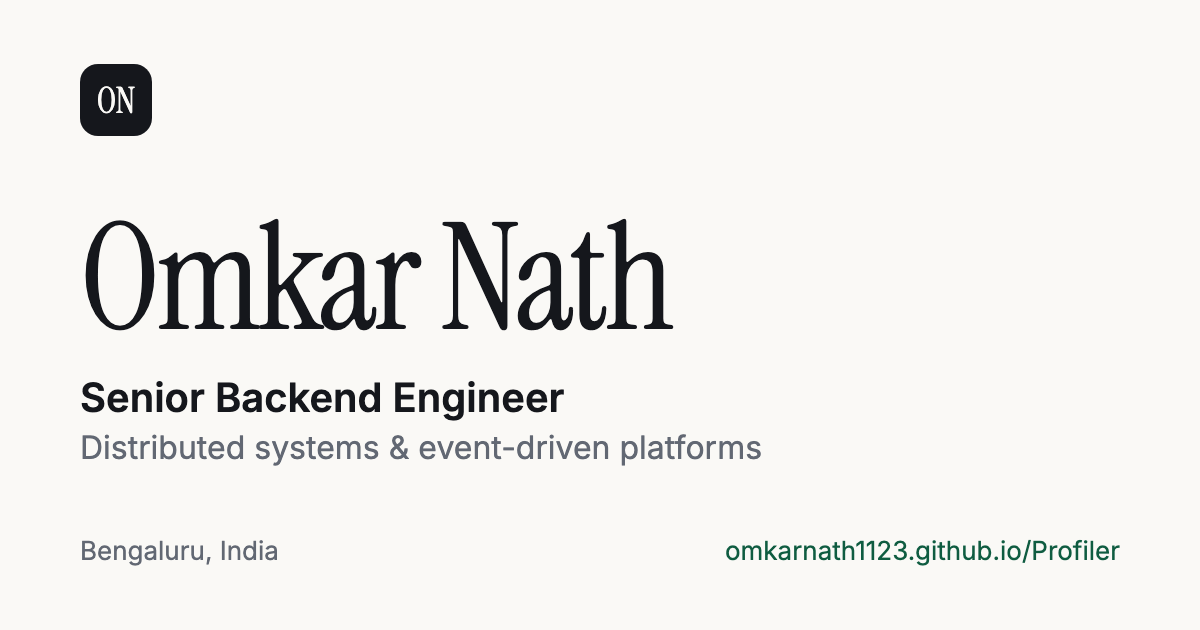
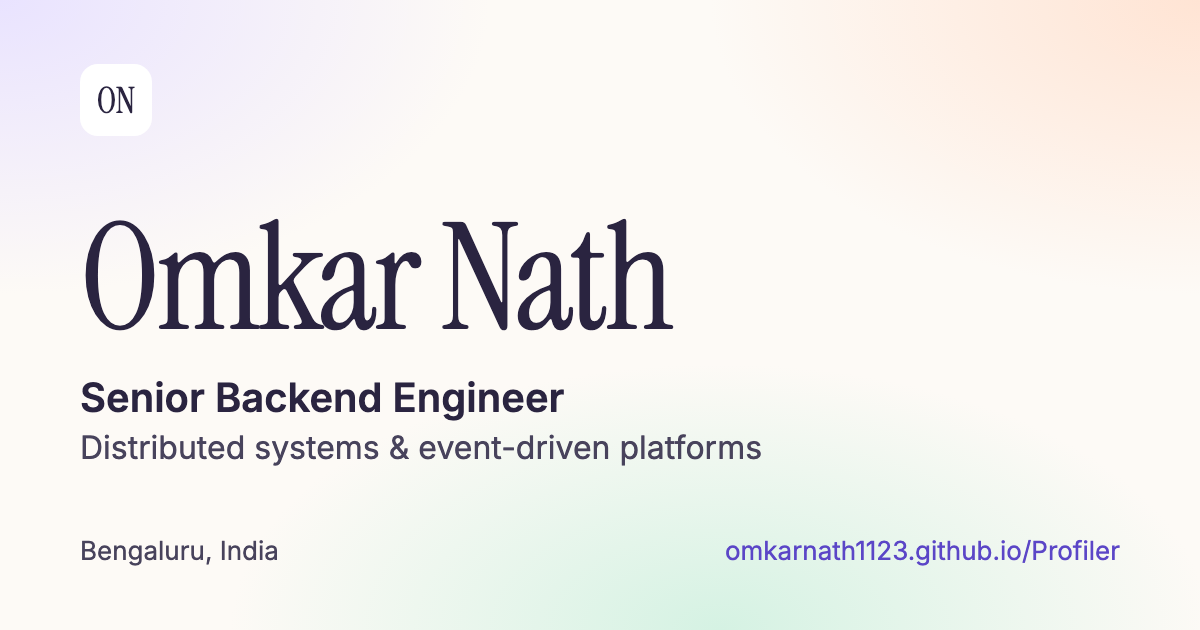
Restyle the CV with a pastel palette
Six pastel tints cycle through the stat cards, section labels, skill chips and project cards. Jobs become white cards, the contact section a gradient panel, and the accent moves from green to violet. Favicon, share card and theme colour follow the new palette. All text pairs keep AA contrast in both themes; print stays at three pages.

diff --git a/src/components/Cv.css b/src/components/Cv.css
@@ -1,15 +1,24 @@
-/* Editorial single-column CV. Text colours meet AA contrast in both themes. */
+/* Pastel editorial CV. Text is always dark ink on a light tint (or the reverse in the
+   dark theme), so it keeps AA contrast. --muted is only for text on --bg or --surface;
+   on a pastel tint use --text. */
 :root {
   color-scheme: light;
-  --bg: #faf9f6;
+  --bg: #fdfaf6;
   --surface: #ffffff;
-  --ink: #15171c;
-  --text: #363a43;
-  --muted: #626873;
-  --line: #e3e0d9;
-  --accent: #0f5c41;
-  --accent-soft: #e4efe9;
+  --ink: #2a2440;
+  --text: #48435c;
+  --muted: #6f6a85;
+  --line: #ebe5f0;
+  --accent: #5b46c7;
   --on-accent: #ffffff;
+  --positive: #1c6b4a;
+  --lavender: #e9e3ff;
+  --mint: #d5f2e3;
+  --peach: #ffe4d4;
+  --sky: #d8ebff;
+  --butter: #fff1c9;
+  --rose: #ffe0ea;
+  --shadow: 0 18px 40px -24px rgb(91 70 199 / 0.35);
   --sans: "Inter Variable", system-ui, -apple-system, "Segoe UI", Roboto, sans-serif;
   --serif: "Instrument Serif", Georgia, "Times New Roman", serif;
 }
@@ -17,22 +26,44 @@
 @media screen and (prefers-color-scheme: dark) {
   :root {
     color-scheme: dark;
-    --bg: #0e1013;
-    --surface: #16191e;
-    --ink: #f3f4f6;
-    --text: #c8ccd3;
-    --muted: #979ea9;
-    --line: #282c34;
-    --accent: #72d6a8;
-    --accent-soft: #15271f;
-    --on-accent: #0b1a13;
+    --bg: #15131f;
+    --surface: #1d1a2b;
+    --ink: #f4f1ff;
+    --text: #cdc8e0;
+    --muted: #9f99b8;
+    --line: #2e2a42;
+    --accent: #b7a8ff;
+    --on-accent: #1a1530;
+    --positive: #8fe0b8;
+    --lavender: #2d2752;
+    --mint: #18382c;
+    --peach: #45291d;
+    --sky: #1b3350;
+    --butter: #3f361a;
+    --rose: #452334;
+    --shadow: none;
   }
 }
+
+/* Children of a .tinted container take the pastels in turn, so repeated cards,
+   chips and section labels never all look the same. */
+.tinted > :nth-child(6n + 1) { --tint: var(--lavender); }
+.tinted > :nth-child(6n + 2) { --tint: var(--mint); }
+.tinted > :nth-child(6n + 3) { --tint: var(--peach); }
+.tinted > :nth-child(6n + 4) { --tint: var(--sky); }
+.tinted > :nth-child(6n + 5) { --tint: var(--butter); }
+.tinted > :nth-child(6n) { --tint: var(--rose); }
 
 *, *::before, *::after { box-sizing: border-box; }
 body {
   margin: 0;
-  background: var(--bg);
+  /* A soft wash of three pastels behind the top of the page. */
+  background:
+    radial-gradient(64rem 34rem at 0% 0%, var(--lavender), transparent 70%),
+    radial-gradient(56rem 30rem at 100% 0%, var(--peach), transparent 70%),
+    radial-gradient(36rem 14rem at 50% -4rem, var(--mint), transparent 70%),
+    var(--bg);
+  background-repeat: no-repeat;
   color: var(--text);
   font-family: var(--sans);
   font-size: 1rem;
@@ -61,9 +92,10 @@ a:hover { text-decoration-color: currentColor; }
   place-items: center;
   width: 44px;
   height: 44px;
-  border-radius: 12px;
-  background: var(--ink);
-  color: var(--bg);
+  border-radius: 14px;
+  background: linear-gradient(135deg, var(--lavender), var(--rose));
+  box-shadow: var(--shadow);
+  color: var(--ink);
   font-family: var(--serif);
   font-size: 1.35rem;
 }
@@ -86,8 +118,8 @@ a:hover { text-decoration-color: currentColor; }
   margin-bottom: 28px;
   padding: 6px 14px;
   border-radius: 999px;
-  background: var(--accent-soft);
-  color: var(--accent);
+  background: var(--mint);
+  color: var(--positive);
   font-size: 0.85rem;
   font-weight: 550;
 }
@@ -110,7 +142,7 @@ a:hover { text-decoration-color: currentColor; }
   padding: 11px 22px;
   border: 1px solid var(--line);
   border-radius: 999px;
-  background: transparent;
+  background: var(--surface);
   color: var(--ink);
   font: inherit;
   font-size: 0.95rem;
@@ -127,8 +159,9 @@ a:hover { text-decoration-color: currentColor; }
 .glance {
   padding: 6px 24px;
   border: 1px solid var(--line);
-  border-radius: 16px;
+  border-radius: 20px;
   background: var(--surface);
+  box-shadow: var(--shadow);
   font-size: 0.92rem;
 }
 .glance-row { display: grid; grid-template-columns: 108px 1fr; gap: 12px; padding: 12px 0; }
@@ -136,14 +169,8 @@ a:hover { text-decoration-color: currentColor; }
 .glance dt { color: var(--muted); }
 .glance dd { font-weight: 500; color: var(--ink); }
 
-.highlights {
-  display: grid;
-  grid-template-columns: repeat(4, 1fr);
-  border-top: 1px solid var(--line);
-  border-bottom: 1px solid var(--line);
-}
-.highlights li { padding: 28px 24px; border-left: 1px solid var(--line); }
-.highlights li:first-child { padding-left: 0; border-left: 0; }
+.highlights { display: grid; grid-template-columns: repeat(4, 1fr); gap: 16px; }
+.highlights li { padding: 24px; border-radius: 20px; background: var(--tint); }
 .highlights strong {
   display: block;
   font-family: var(--serif);
@@ -152,30 +179,32 @@ a:hover { text-decoration-color: currentColor; }
   line-height: 1;
   color: var(--ink);
 }
-.highlights span { display: block; margin-top: 10px; font-size: 0.88rem; line-height: 1.45; color: var(--muted); }
+.highlights span { display: block; margin-top: 10px; font-size: 0.88rem; line-height: 1.45; }
 
 /* ---------- Sections ---------- */
 .section {
   display: grid;
   grid-template-columns: 200px minmax(0, 1fr);
   gap: 40px;
-  padding: 56px 0;
-  border-bottom: 1px solid var(--line);
+  padding: 44px 0;
 }
 .section-title {
   position: sticky;
   top: 24px;
-  align-self: start;
-  padding-top: 5px;
-  font-size: 0.78rem;
+  place-self: start;
+  padding: 6px 14px;
+  border-radius: 999px;
+  background: var(--tint);
+  font-size: 0.75rem;
   font-weight: 600;
-  letter-spacing: 0.14em;
+  letter-spacing: 0.12em;
   text-transform: uppercase;
-  color: var(--accent);
+  color: var(--ink);
 }
 .about-text + .about-text { margin-top: 14px; }
 
-.job + .job { margin-top: 44px; padding-top: 44px; border-top: 1px solid var(--line); }
+.job { padding: 28px 30px; border: 1px solid var(--line); border-radius: 20px; background: var(--surface); }
+.job + .job { margin-top: 18px; }
 .job-head { display: flex; align-items: baseline; justify-content: space-between; gap: 24px; }
 .job-company { font-size: 1.2rem; font-weight: 650; letter-spacing: -0.01em; color: var(--ink); }
 .job-role { font-weight: 500; color: var(--ink); }
@@ -194,14 +223,24 @@ a:hover { text-decoration-color: currentColor; }
   background: var(--accent);
 }
 
-.entries { display: grid; gap: 26px; }
+.entries { display: grid; grid-template-columns: repeat(auto-fit, minmax(260px, 1fr)); gap: 16px; }
+.entries li { padding: 20px 22px; border-radius: 18px; background: var(--tint); }
 .entry-title { font-weight: 600; color: var(--ink); }
 .entry-meta { font-size: 0.88rem; color: var(--muted); }
+.entries .entry-meta { margin-bottom: 6px; color: var(--text); }
 
-.skill-row { display: grid; grid-template-columns: 200px 1fr; gap: 16px; padding: 12px 0; }
-.skill-row + .skill-row { border-top: 1px solid var(--line); }
+.skill-row { display: grid; grid-template-columns: 200px 1fr; gap: 16px; padding: 10px 0; }
 .skill-row:first-child { padding-top: 0; }
-.skills dt { font-weight: 600; color: var(--ink); }
+.skills dt { padding-top: 3px; font-weight: 600; color: var(--ink); }
+.chips { display: flex; flex-wrap: wrap; gap: 8px; }
+.chips li { padding: 3px 12px; border-radius: 999px; background: var(--tint); font-size: 0.88rem; color: var(--ink); }
+
+.contact-panel {
+  padding: 36px;
+  border-radius: 24px;
+  background: linear-gradient(135deg, var(--lavender), var(--peach));
+  color: var(--ink);
+}
 
 /* Sans on purpose: the serif's "1" reads as a lowercase "l", which is fatal in an address. */
 .contact-email {
@@ -220,12 +259,12 @@ a:hover { text-decoration-color: currentColor; }
 @media screen and (max-width: 860px) {
   .page { padding: 0 20px 48px; }
   .hero-grid { grid-template-columns: 1fr; gap: 36px; padding: 28px 0 40px; }
-  .highlights { grid-template-columns: repeat(2, 1fr); }
-  .highlights li { padding: 22px 16px; }
-  .highlights li:nth-child(odd) { padding-left: 0; border-left: 0; }
-  .highlights li:nth-child(n + 3) { border-top: 1px solid var(--line); }
-  .section { grid-template-columns: 1fr; gap: 20px; padding: 40px 0; }
+  .highlights { grid-template-columns: repeat(2, 1fr); gap: 12px; }
+  .highlights li { padding: 18px; }
+  .section { grid-template-columns: 1fr; gap: 18px; padding: 32px 0; }
   .section-title { position: static; }
+  .job { padding: 22px 20px; }
+  .contact-panel { padding: 26px 22px; }
 }
 @media screen and (max-width: 520px) {
   .topbar-links { gap: 18px; }
@@ -234,12 +273,14 @@ a:hover { text-decoration-color: currentColor; }
   .skill-row { grid-template-columns: 1fr; gap: 2px; }
 }
 
-/* ---------- Paper: a plain A4 CV ---------- */
+/* ---------- Paper: an A4 CV. Pastel fills are kept (they are light on ink); the page wash and cards' padding are not. ---------- */
 @media print {
   @page { size: A4; margin: 13mm 14mm; }
   /* Every font size above is in rem, so this one line rescales all the type for paper. */
   :root { font-size: 9pt; }
   body { background: #fff; line-height: 1.42; }
+  .highlights li, .section-title, .chips li, .entries li { print-color-adjust: exact; }
+  .glance { box-shadow: none; }
   .page { max-width: none; padding: 0; }
   .topbar, .actions, .skip-link, .site-footer, .status, .screen-only { display: none; }
   .print-only { display: block; margin-top: 6pt; }
@@ -250,19 +291,25 @@ a:hover { text-decoration-color: currentColor; }
   .current { margin-top: 4pt; }
   .glance { padding: 2pt 10pt; border-radius: 8pt; }
   .glance-row { grid-template-columns: 20mm 1fr; gap: 3mm; padding: 3pt 0; }
-  .highlights li { padding: 7pt 10pt; }
+  .highlights { gap: 6pt; }
+  .highlights li { padding: 7pt 10pt; border-radius: 8pt; }
   .highlights strong { font-size: 17pt; }
   .highlights span { margin-top: 3pt; }
   .section { grid-template-columns: 28mm minmax(0, 1fr); gap: 5mm; padding: 5mm 0; }
-  .section-title { position: static; padding-top: 2pt; }
+  .section-title { position: static; padding: 2pt 7pt; }
   .about-text + .about-text { margin-top: 5pt; }
-  .job + .job { margin-top: 4mm; padding-top: 4mm; }
+  .job { padding: 0; border: 0; border-radius: 0; }
+  .job + .job { margin-top: 4mm; padding-top: 4mm; border-top: 1px solid var(--line); }
   .job-summary { margin-top: 3pt; }
   .group-name { margin-top: 7pt; }
   .points { gap: 2pt; margin-top: 3pt; }
   .points li { padding-left: 12pt; }
   .entries { gap: 6pt; }
-  .skill-row { grid-template-columns: 40mm 1fr; padding: 3pt 0; }
+  .entries li { padding: 6pt 9pt; border-radius: 8pt; }
+  .entries .entry-meta { margin-bottom: 2pt; }
+  .skill-row { grid-template-columns: 40mm 1fr; padding: 2.5pt 0; }
+  .chips { gap: 3pt; }
+  .chips li { padding: 1pt 7pt; }
   .job-head, .group-name { break-after: avoid; }
   .points li, .entries li, .skill-row, .glance, .highlights { break-inside: avoid; }
 }

diff --git a/src/components/Cv.jsx b/src/components/Cv.jsx
@@ -11,7 +11,7 @@ export default function Cv() {
       <a className="skip-link" href="#main">Skip to content</a>
       <Hero />
 
-      <main id="main">
+      <main id="main" className="tinted">
         <Section title="About">
           {about.map((paragraph) => <p key={paragraph.slice(0, 20)} className="about-text">{paragraph}</p>)}
         </Section>
@@ -21,7 +21,7 @@ export default function Cv() {
         </Section>
 
         <Section title="Recognition">
-          <ul className="entries">
+          <ul className="entries tinted">
             {awards.map((award) => (
               <li key={award.title}>
                 <p className="entry-title">{award.title}</p>
@@ -33,18 +33,20 @@ export default function Cv() {
         </Section>
 
         <Section title="Skills">
-          <dl className="skills">
+          <dl className="skills tinted">
             {skills.map((skill) => (
               <div key={skill.group} className="skill-row">
                 <dt>{skill.group}</dt>
-                <dd>{skill.items.join(" · ")}</dd>
+                <dd>
+                  <ul className="chips">{skill.items.map((item) => <li key={item}>{item}</li>)}</ul>
+                </dd>
               </div>
             ))}
           </dl>
         </Section>
 
         <Section title="Projects">
-          <ul className="entries">
+          <ul className="entries tinted">
             {projects.map((project) => (
               <li key={project.name}>
                 <p className="entry-title">
@@ -67,15 +69,17 @@ export default function Cv() {
 
         {/* On paper the contact details are already printed under the intro. */}
         <Section title="Contact" screenOnly>
-          <p>{person.pitch}</p>
-          <a className="contact-email" href={`mailto:${person.email}`}>{person.email}</a>
-          <ul className="contact-links">
-            {links.map((link) => (
-              <li key={link.label}>
-                <a href={link.href} target="_blank" rel="noopener noreferrer">{prettyUrl(link.href)}</a>
-              </li>
-            ))}
-          </ul>
+          <div className="contact-panel">
+            <p>{person.pitch}</p>
+            <a className="contact-email" href={`mailto:${person.email}`}>{person.email}</a>
+            <ul className="contact-links">
+              {links.map((link) => (
+                <li key={link.label}>
+                  <a href={link.href} target="_blank" rel="noopener noreferrer">{prettyUrl(link.href)}</a>
+                </li>
+              ))}
+            </ul>
+          </div>
         </Section>
       </main>
 

diff --git a/index.html b/index.html
@@ -3,8 +3,8 @@
   <head>
     <meta charset="utf-8" />
     <meta name="viewport" content="width=device-width, initial-scale=1" />
-    <meta name="theme-color" content="#faf9f6" media="(prefers-color-scheme: light)" />
-    <meta name="theme-color" content="#0e1013" media="(prefers-color-scheme: dark)" />
+    <meta name="theme-color" content="#fdfaf6" media="(prefers-color-scheme: light)" />
+    <meta name="theme-color" content="#15131f" media="(prefers-color-scheme: dark)" />
     <link rel="icon" href="/favicon.svg" type="image/svg+xml" />
     <link rel="alternate icon" href="/favicon.ico" />
     <!-- Title, description, link-preview and JSON-LD tags are injected from src/data/profile.js (see vite.seo.js). -->

diff --git a/src/components/Hero.jsx b/src/components/Hero.jsx
@@ -40,7 +40,7 @@ export default function Hero() {
         </dl>
       </div>
 
-      <ul className="highlights" aria-label="Highlights">
+      <ul className="highlights tinted" aria-label="Highlights">
         {highlights.map((item) => (
           <li key={item.label}>
             <strong>{item.value}</strong>
